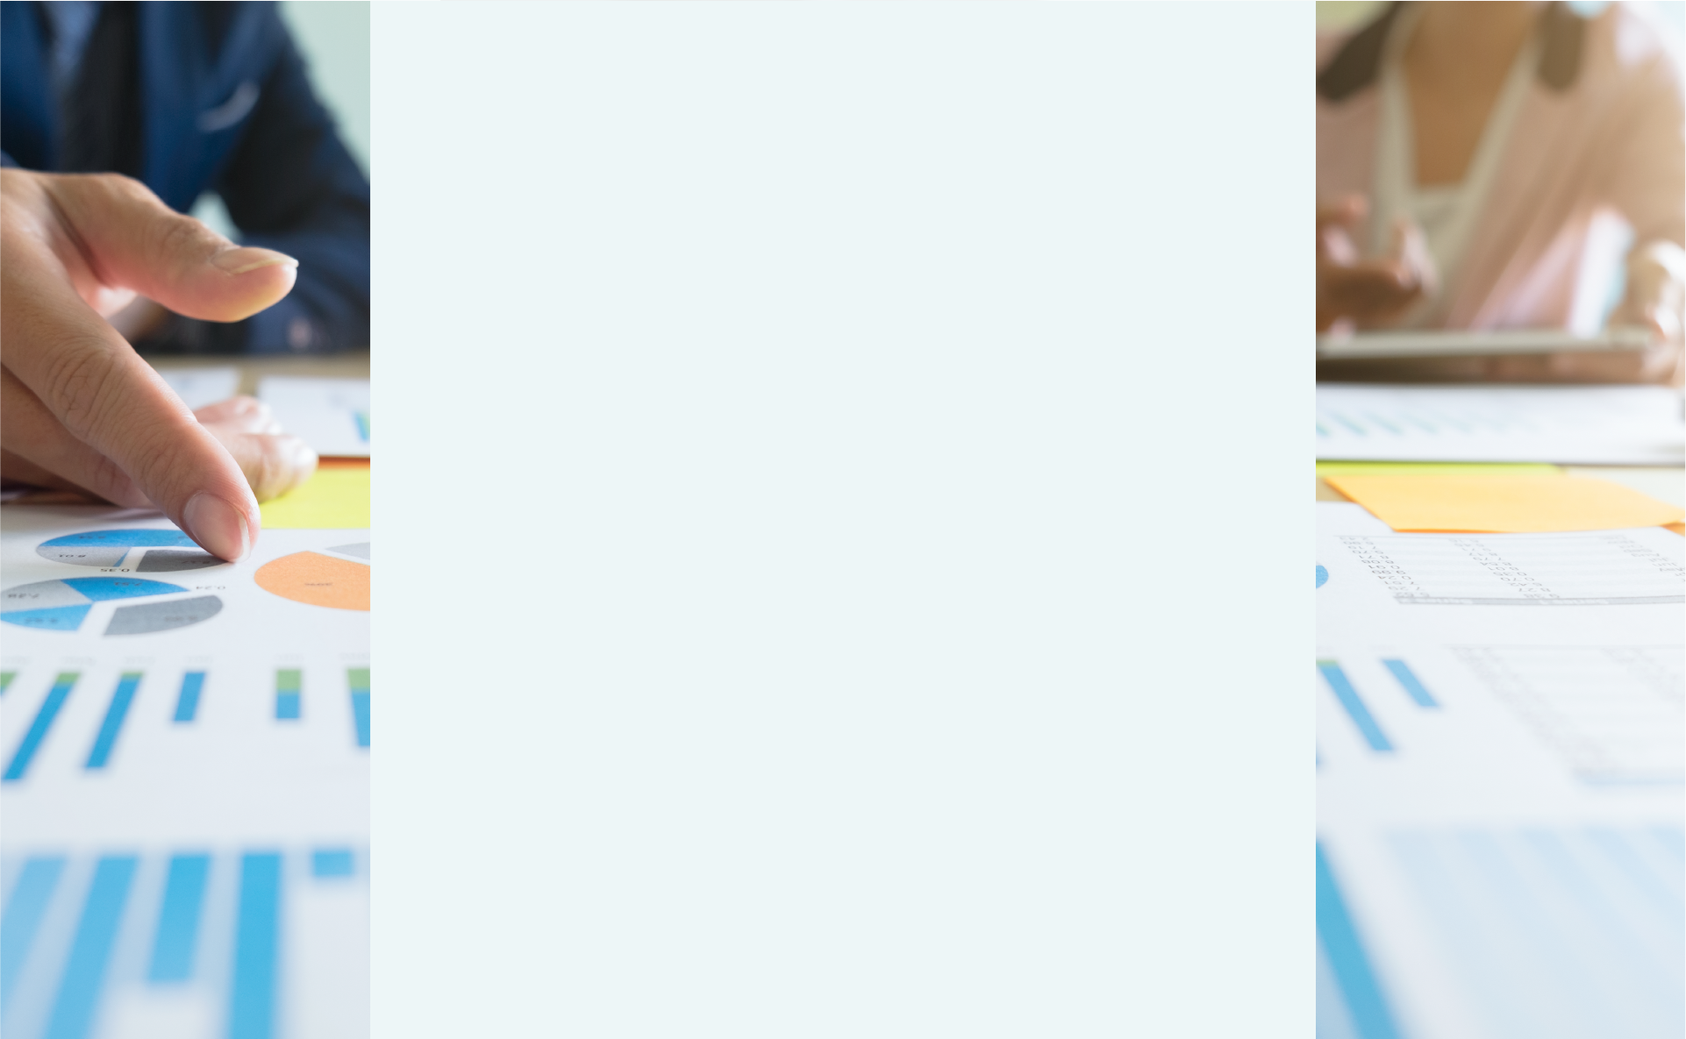
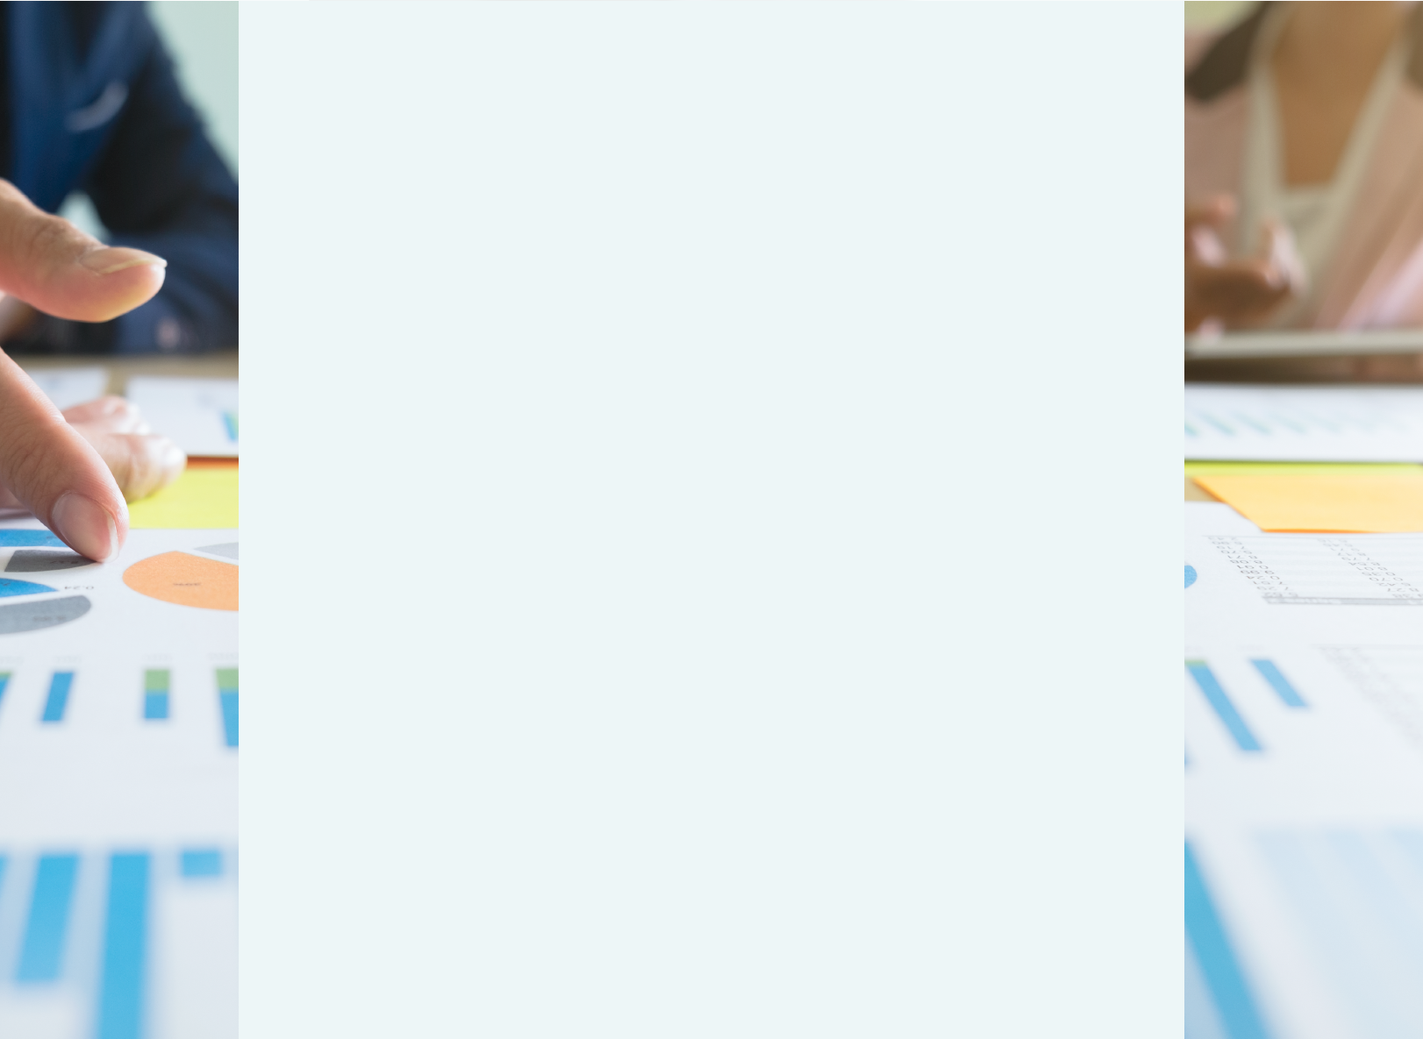
ajustes

diff --git a/conteudo.html b/conteudo.html
@@ -62,8 +62,8 @@
 
                 <div class="bloco1-pg1">
                     <div class="container">
-                        <h2> Gráficos e tabelas como representações da realidade</h2>
-                        <h4>Quarta etapa: organização dos dados</h4>
+                        <h2>Dados acompanhados por um determinado período de tempo</h2>
+                        <!--<h4>Quarta etapa: organização dos dados</h4>-->
                         <p>
                             Como já estudado no módulo I, no dia a dia são realizadas diversas pesquisas estatísticas,
                             como, por exemplo, pesquisas de preços, pesquisas eleitorais, pesquisas de satisfação,
@@ -120,7 +120,7 @@
                                     informações, com gráficos e índices para não cometer injustiças ou propagar
                                     informações descontextualizadas e até mesmo <span class="bt-tooltip"
                                         data-bs-toggle="tooltip" data-bs-placement="top"
-                                        title="Verbete: notícias falsas publicadas por veículos de comunicação como se fossem informações reais.">
+                                        title="Notícias falsas publicadas por veículos de comunicação como se fossem informações reais.">
                                         <em>fake news</em>.</span>
                                 </p>
                             </div>
@@ -162,6 +162,107 @@
 
                     </div>
                 </div>
+                
+                <div class="bloco7-pg1">
+
+                    <!-- <img src="img/elem_float_5.png" class="no-print rellax-esquerda-big relax-top1" data-rellax-speed="4">
+                            <img src="img/elem_float_6.png" class="no-print rellax-esquerda-big relax-top15" data-rellax-speed="4">
+                            <img src="img/elem_float_7.png" class="no-print rellax-esquerda-big relax-top25" data-rellax-speed="4"> -->
+
+                    <div class="container">
+                        <h2>Entendendo os resultados</h2>
+                        <h4>Quinta etapa: resultados e análises </h4>
+                        <p>
+                            As reportagens em revistas, jornais, em conteúdos da Internet, em programas de televisão,
+                            entre outros locais de divulgação de conteúdos, estão repletas de gráficos e tabelas com
+                            dados estatísticos, portanto, no dia a dia, é mais usual encontrarmos informações na forma
+                            de gráficos. Mas você já se perguntou por que isso acontece?
+                        </p>
+                        <p>
+                            A possibilidade de extrair as informações apenas observando a imagem do gráfico, sem a
+                            necessidade da leitura de textos e dados, é uma das principais finalidades da sua
+                            utilização. Veja um exemplo:
+                        </p>
+                        <figure>
+                            <img src="img/figura_04.png" class="img-fluid d-block mx-auto my-3" data-aos="zoom-in"
+                                alt="A imagem mostra um gráfico com o título “Sexo”. Do lado direito há uma legenda com as indicações “mulheres” e “homens”. O gráfico é formado por um círculo dividido em duas partes de cores diferentes, sendo a parte maior destacada referente às mulheres e a parte menor referente aos homens, conforme a indicação da legenda. ">
+                            <figcaption>Figura 4 – Gráfico de setores <br>
+                                Fonte: Sesc EJA EAD (2022)
+                            </figcaption>
+                        </figure>
+                        <p>
+                            No gráfico apresentado, de acordo com a legenda, as mulheres são representadas pela cor
+                            vermelha e os homens, pela cor azul, portanto, percebe-se, apenas por meio da visualização
+                            da formação das partes do gráfico, que existem mais mulheres do que homens. Isso ocorre
+                            porque a parte vermelha está notavelmente ocupando um espaço maior no todo, evidenciando a
+                            informação do maior número de mulheres.
+                        </p>
+                        <p>
+                            Os gráficos e as tabelas são recursos estatísticos muito úteis para resumir e apresentar os
+                            resultados obtidos em uma pesquisa. Diariamente, vemos tabelas e gráficos nos mais variados
+                            veículos de comunicação, associadas a assuntos diversos da nossa rotina diária, como
+                            resultados de pesquisas eleitorais, esportes, segurança pública, saúde, trabalho, emprego,
+                            renda, economia, cidadania etc.
+                        </p>
+                        <p>
+                            A partir da solicitação da administração municipal para que a comissão organizadora da
+                            pesquisa apresente os resultados, iniciou-se o processo de organização dos dados, pois a
+                            comissão reconhece a importância que as tabelas e os gráficos têm na interpretação,
+                            visualização e divulgação dos dados. Isso porque esses recursos facilitam e agilizam a
+                            compreensão dos dados por parte do leitor e também viabilizam diversas maneiras de ilustrar
+                            e resumir as informações apresentadas.
+                        </p>
+                        <p>
+                            Agora, o próximo passo da comissão será utilizar esses recursos visuais, por isso, ela
+                            passou a estudar alguns tipos de gráficos, procurando conhecer as principais características
+                            de cada um e seus elementos, a fim de escolher o tipo de gráfico mais adequado de acordo com
+                            os dados a serem representados. Além disso, esse estudo teve como objetivo evitar
+                            interpretações equivocadas dos dados apresentados, que podem ter sido produzidos
+                            involuntariamente – ou até mesmo propositalmente – com erros.
+                        </p>
+                        <p>
+                            Como a pesquisa de Calculópolis foi baseada nas perguntas realizadas no Censo e em pesquisas
+                            de amostras por domicílio, a comissão organizadora foi em busca dos gráficos utilizados na
+                            divulgação dos dados encontrados naquela pesquisa. Nessa busca, constatou-se que os gráficos
+                            mais comuns são os gráficos de barras, colunas e setores.
+                        </p>
+                        <p>
+                            Você sabia que cada um desses gráficos apresenta características específicas e que os
+                            diferentes gráficos são indicados para diferentes tipos de variáveis e para diferentes
+                            objetivos? Que tal visualizar o que a comissão encontrou como resultado de sua pesquisa?
+                        </p>
+                        <p>
+                            Ao pesquisar sobre uma mesma questão que havia no questionário de Calculópolis, a comissão
+                            encontrou no <em>site</em> do IBGE alguns resultados do censo do Brasil apresentados em
+                            gráficos de barras e de colunas. Confira a seguir:
+                        </p>
+                        <figure>
+                            <img src="img/figura_05.png" class="img-fluid d-block mx-auto my-3" data-aos="zoom-in"
+                                alt="A figura mostra um gráfico de barras horizontais partindo da esquerda para a direita, indicando o número total de domicílios e seus tipos (casa ou apartamento) no Brasil e em cada região do país (Norte, Nordeste, Sudeste, Sul e Centro-Oeste). Cada região forma um bloco com três barras e está separada das demais apresentando tamanhos diferentes.  ">
+                            <figcaption>Figura 5 – Gráfico de barras da amostra de domicílios – 2019 <br>
+
+                                Fonte: Instituto Brasileiro de Geografia e Estatística (2019?)
+                            </figcaption>
+                        </figure>
+                        <figure>
+                            <img src="img/figura_06.png" class="img-fluid d-block mx-auto my-3" data-aos="zoom-in"
+                                alt="A figura mostra um gráfico de barras horizontais partindo da esquerda para a direita, indicando o número total de domicílios e seus tipos (casa ou apartamento) no Brasil e em cada região do país (Norte, Nordeste, Sudeste, Sul e Centro-Oeste). Cada região apresenta uma única barra e está separada das demais apresentando tamanhos iguais. ">
+                            <figcaption>
+
+                                Figura 6 – Gráfico de barras da amostra de domicílios – 2019 <br>
+
+                                Fonte: Instituto Brasileiro de Geografia e Estatística (2019?)
+                            </figcaption>
+                        </figure>
+                    </div>
+                </div>
+
+            </div>
+            <!-- FIM PG1 -->
+
+            <!-- PG2 -->
+            <div class="pagina">
+
                 <div class="bloco4-pg1">
                     <!-- <img src="img/elem_float_1.png" class="no-print rellax-esquerda-big relax-top5" data-rellax-speed="4"> -->
 
@@ -300,6 +401,7 @@
                             tabelas, os dados são apresentados em linhas e colunas, contribuindo para a leitura e a
                             interpretação das informações.
                         </p>
+                        <p class="titulo-tabela">Renda Familiar dos domicílios de Calculópolis</p>
                         <table class="sesc">
                             <tr>
                                 <th>Renda familiar</th>
@@ -353,26 +455,24 @@
                             </tr>
                         </table>
                         <figcaption>
-                            Fonte: Sesc EJA EAD (2022)
+                            Fonte: Sesc EAD EJA (2022)
                         </figcaption>
-                        <p>
-                            O título dessa tabela é “Renda familiar dos domicílios de Calculópolis”. Ela tem três
-                            colunas (divisões na vertical) e dez linhas (divisões na horizontal).
-                        </p>
-                        <p>
-                            Na primeira linha, são apresentadas as seguintes informações: na primeira coluna, a
-                            categoria pesquisada (no caso, renda familiar); na segunda coluna, a frequência absoluta (no
-                            caso, a quantidade de famílias que recebem entre a faixa salarial que é citada na primeira
-                            coluna); na terceira coluna, a frequência relativa (no caso, o percentual de famílias que
-                            recebem entre a faixa salarial que é citada na primeira coluna em relação ao total).
-                        </p>
-                        <p>
-                            Da segunda à oitava linhas são especificados os seguintes dados: na primeira coluna, a faixa
-                            salarial de moradores por moradia; na segunda coluna, a quantidade de moradias que
-                            correspondem à faixa salarial; na terceira coluna, o percentual correspondente ao
-                            recebimento da faixa salarial.
-                        </p>
-                        <p>A fonte, “Sesc EJA EAD (2022)” informa quem forneceu as informações. </p>
+
+                        <div class="caixa-destaque">
+                            <ul>
+                                <p>Na primeira linha, são apresentadas: </p>
+                                <li>Na primeira coluna, a categoria pesquisada (no caso, renda familiar) </li>
+                                <li>Na segunda coluna, a frequência absoluta (no caso, a quantidade de famílias que recebem entre a faixa salarial que é citada na primeira coluna) </li>
+                                <li>Na terceira coluna, a frequência relativa (no caso, o percentual de famílias que recebem entre a faixa salarial que é citada na primeira coluna em relação ao total)</li>
+                                <p>Da segunda à oitava linha, são especificados:</p>
+                                <li>Na primeira coluna, a faixa salarial de moradores por moradia </li>
+                                <li>Na segunda coluna, a quantidade de moradias que correspondem à faixa salarial </li>
+                                <li>Na terceira coluna, o percentual correspondente ao recebimento da faixa salarial </li>
+                                <li>A fonte (Sesc EAD EJA) informa quem forneceu as informações.</li>
+                            </ul>
+                        </div>
+
+                        <p>A fonte, “Sesc EAD EJA (2022)” informa quem forneceu as informações. </p>
                         <p>
                             Após obter todos os dados organizados da pesquisa realizada com os moradores de
                             Calculópolis, será possível entender melhor a realidade da população em relação às suas
@@ -384,103 +484,7 @@
                         </p>
                     </div>
                 </div>
-                <div class="bloco7-pg1">
 
-                    <!-- <img src="img/elem_float_5.png" class="no-print rellax-esquerda-big relax-top1" data-rellax-speed="4">
-                            <img src="img/elem_float_6.png" class="no-print rellax-esquerda-big relax-top15" data-rellax-speed="4">
-                            <img src="img/elem_float_7.png" class="no-print rellax-esquerda-big relax-top25" data-rellax-speed="4"> -->
-
-                    <div class="container">
-                        <h2>Entendendo os resultados</h2>
-                        <h4>Quinta etapa: resultados e análises </h4>
-                        <p>
-                            As reportagens em revistas, jornais, em conteúdos da Internet, em programas de televisão,
-                            entre outros locais de divulgação de conteúdos, estão repletas de gráficos e tabelas com
-                            dados estatísticos, portanto, no dia a dia, é mais usual encontrarmos informações na forma
-                            de gráficos. Mas você já se perguntou por que isso acontece?
-                        </p>
-                        <p>
-                            A possibilidade de extrair as informações apenas observando a imagem do gráfico, sem a
-                            necessidade da leitura de textos e dados, é uma das principais finalidades da sua
-                            utilização. Veja um exemplo:
-                        </p>
-                        <figure>
-                            <img src="img/figura_04.png" class="img-fluid d-block mx-auto my-3" data-aos="zoom-in"
-                                alt="A imagem mostra um gráfico com o título “Sexo”. Do lado direito há uma legenda com as indicações “mulheres” e “homens”. O gráfico é formado por um círculo dividido em duas partes de cores diferentes, sendo a parte maior destacada referente às mulheres e a parte menor referente aos homens, conforme a indicação da legenda. ">
-                            <figcaption>Figura 4 – Gráfico de setores <br>
-                                Fonte: Sesc EJA EAD (2022)
-                            </figcaption>
-                        </figure>
-                        <p>
-                            No gráfico apresentado, de acordo com a legenda, as mulheres são representadas pela cor
-                            vermelha e os homens, pela cor azul, portanto, percebe-se, apenas por meio da visualização
-                            da formação das partes do gráfico, que existem mais mulheres do que homens. Isso ocorre
-                            porque a parte vermelha está notavelmente ocupando um espaço maior no todo, evidenciando a
-                            informação do maior número de mulheres.
-                        </p>
-                        <p>
-                            Os gráficos e as tabelas são recursos estatísticos muito úteis para resumir e apresentar os
-                            resultados obtidos em uma pesquisa. Diariamente, vemos tabelas e gráficos nos mais variados
-                            veículos de comunicação, associadas a assuntos diversos da nossa rotina diária, como
-                            resultados de pesquisas eleitorais, esportes, segurança pública, saúde, trabalho, emprego,
-                            renda, economia, cidadania etc.
-                        </p>
-                        <p>
-                            A partir da solicitação da administração municipal para que a comissão organizadora da
-                            pesquisa apresente os resultados, iniciou-se o processo de organização dos dados, pois a
-                            comissão reconhece a importância que as tabelas e os gráficos têm na interpretação,
-                            visualização e divulgação dos dados. Isso porque esses recursos facilitam e agilizam a
-                            compreensão dos dados por parte do leitor e também viabilizam diversas maneiras de ilustrar
-                            e resumir as informações apresentadas.
-                        </p>
-                        <p>
-                            Agora, o próximo passo da comissão será utilizar esses recursos visuais, por isso, ela
-                            passou a estudar alguns tipos de gráficos, procurando conhecer as principais características
-                            de cada um e seus elementos, a fim de escolher o tipo de gráfico mais adequado de acordo com
-                            os dados a serem representados. Além disso, esse estudo teve como objetivo evitar
-                            interpretações equivocadas dos dados apresentados, que podem ter sido produzidos
-                            involuntariamente – ou até mesmo propositalmente – com erros.
-                        </p>
-                        <p>
-                            Como a pesquisa de Calculópolis foi baseada nas perguntas realizadas no Censo e em pesquisas
-                            de amostras por domicílio, a comissão organizadora foi em busca dos gráficos utilizados na
-                            divulgação dos dados encontrados naquela pesquisa. Nessa busca, constatou-se que os gráficos
-                            mais comuns são os gráficos de barras, colunas e setores.
-                        </p>
-                        <p>
-                            Você sabia que cada um desses gráficos apresenta características específicas e que os
-                            diferentes gráficos são indicados para diferentes tipos de variáveis e para diferentes
-                            objetivos? Que tal visualizar o que a comissão encontrou como resultado de sua pesquisa?
-                        </p>
-                        <p>
-                            Ao pesquisar sobre uma mesma questão que havia no questionário de Calculópolis, a comissão
-                            encontrou no <em>site</em> do IBGE alguns resultados do censo do Brasil apresentados em
-                            gráficos de barras e de colunas. Confira a seguir:
-                        </p>
-                        <figure>
-                            <img src="img/figura_05.png" class="img-fluid d-block mx-auto my-3" data-aos="zoom-in"
-                                alt="A figura mostra um gráfico de barras horizontais partindo da esquerda para a direita, indicando o número total de domicílios e seus tipos (casa ou apartamento) no Brasil e em cada região do país (Norte, Nordeste, Sudeste, Sul e Centro-Oeste). Cada região forma um bloco com três barras e está separada das demais apresentando tamanhos diferentes.  ">
-                            <figcaption>Figura 5 – Gráfico de barras da amostra de domicílios – 2019 <br>
-
-                                Fonte: Instituto Brasileiro de Geografia e Estatística (2019?)
-                            </figcaption>
-                        </figure>
-                        <figure>
-                            <img src="img/figura_06.png" class="img-fluid d-block mx-auto my-3" data-aos="zoom-in"
-                                alt="A figura mostra um gráfico de barras horizontais partindo da esquerda para a direita, indicando o número total de domicílios e seus tipos (casa ou apartamento) no Brasil e em cada região do país (Norte, Nordeste, Sudeste, Sul e Centro-Oeste). Cada região apresenta uma única barra e está separada das demais apresentando tamanhos iguais. ">
-                            <figcaption>
-
-                                Figura 6 – Gráfico de barras da amostra de domicílios – 2019 <br>
-
-                                Fonte: Instituto Brasileiro de Geografia e Estatística (2019?)
-                            </figcaption>
-                        </figure>
-                    </div>
-                </div>
-
-            </div>
-            <!-- FIM PG2 -->
-            <div class="pagina">
                 <div class="bloco1-pg2">
                     <div class="container">
                         <h4>Gráfico de barras </h4>
@@ -1002,11 +1006,9 @@
 
                 </div>
             </div>
+            <!-- FIM PG2 -->
 
             <!-- PG3 -->
-
-
-            <!-- FIM PG3 -->
             <div class="pagina">
                 <div class="bloco1-pg3">
                     <div class="container">
@@ -1632,6 +1634,7 @@
                     </div>
                 </div>
             </div>
+            <!-- FIM PG3 -->
 
             <!-- PG4 -->
             <div class="pagina">
@@ -1695,8 +1698,8 @@
                             </div>
                         </div> -->
             </div>
-
             <!-- FIM PG4 -->
+
 
             <!-- PG5 -->
             <!-- <div class="pagina">

diff --git a/assets/css/custom.css b/assets/css/custom.css
@@ -506,17 +506,23 @@ h2 {
 .bloco3-pg1 .container{
     padding-top: 50px;
     padding-bottom: 40px;
+    padding-left: 110px;
+    padding-right: 40px;
 }
 .bloco4-pg1{
     position: relative;
     /* color: #fff; */
     background-image: url('../../img/bg4_pg1.png');
     background-attachment: fixed;
-    background-size: 100%;
+    background-size: cover;
+    background-repeat: no-repeat;
+    
 }
 /* .bloco4-pg1 h1, .bloco4-pg1 h2{ color: #fff;} */
 
-.bloco4-pg1 > .container{ padding-top: 60px;}
+.bloco4-pg1 > .container{
+    padding: 60px;
+}
 .bloco5-pg1{
     position: relative;
     background-image: url('../../img/bg5_pg1.png');
@@ -922,6 +928,24 @@ figcaption {
     margin: 30px auto;
     max-width: 100%;
 }
+
+
+.titulo-tabela{
+    font-weight: bold;
+    color: #009ba7;
+    text-align: center;
+    margin-top: 30px;
+    margin-bottom: -20px;
+}
+
+ul p{
+    margin-top: 10px;
+    margin-bottom: 5px;
+    font-size: 16px;
+    font-family: Roboto;
+}
+
+
 @media (max-width: 1680px) {
     
     #bloco-bg-slider{
